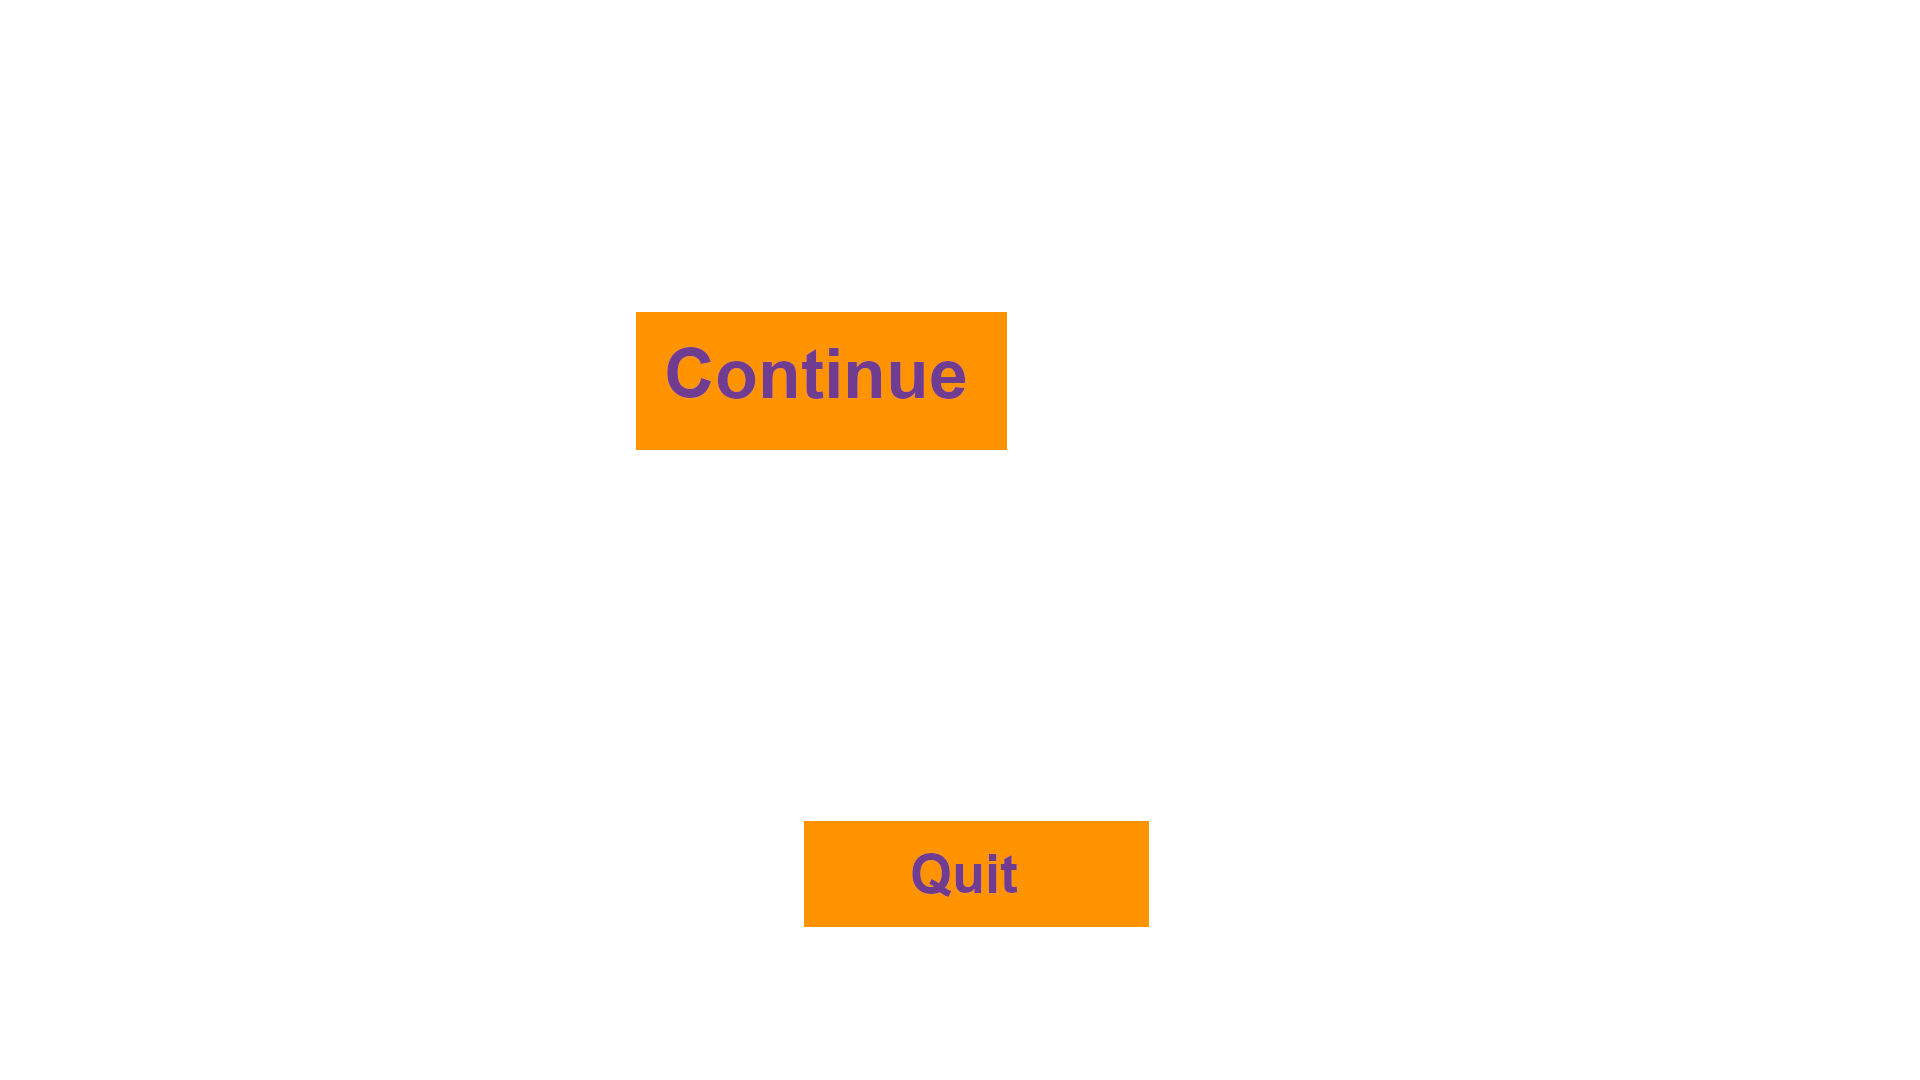
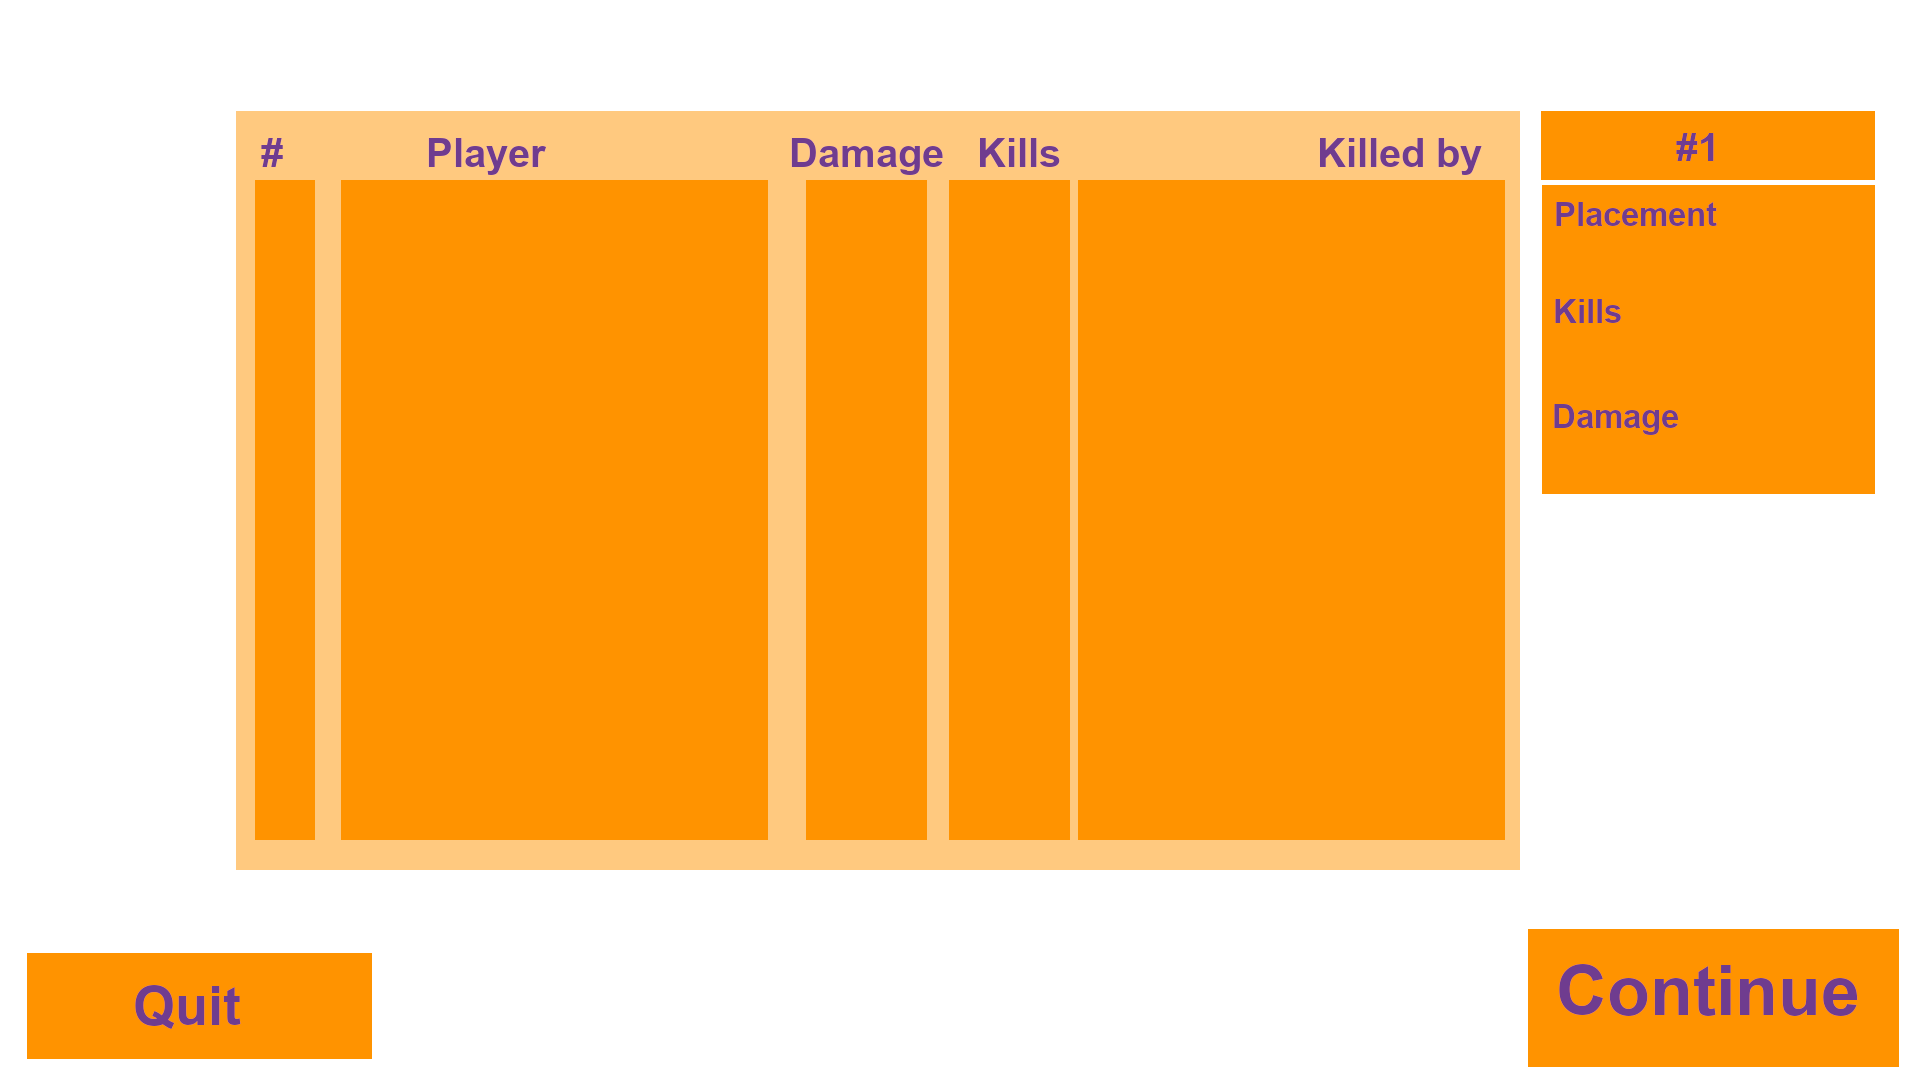
-_-

diff --git a/Leaderboard.cpp b/Leaderboard.cpp
@@ -1,0 +1,85 @@
+#include "Leaderboard.hpp"
+
+#include "Player.hpp"
+#include <sstream>
+
+unsigned int leaderboard_count = 0;
+
+unsigned int leaderboard_place_pos = 0;
+unsigned int leaderboard_player_pos = 0;
+unsigned int leaderboard_dmg_pos = 0;
+unsigned int leaderboard_kills_pos = 0;
+unsigned int leaderboard_killedby_pos = 0;
+
+unsigned int player_size_in_bf;
+unsigned int place_size_in_bf;
+
+void leaderboard_init(struct bit_field* bf_rw) {
+	int size = players.size() * sizeof(struct leaderboard_place_element);
+	int size_in_bf = (int)ceilf(size / (float)sizeof(unsigned int));
+	place_size_in_bf = size_in_bf;
+	leaderboard_place_pos = bit_field_add_bulk_zero(bf_rw, size_in_bf) + 1;
+	ui_value_as_config(bf_rw, "ingame_menu", "leaderboard_place", 0, leaderboard_place_pos);
+	
+	size = players.size() * sizeof(struct playerlist_element);
+	size_in_bf = (int)ceilf(size / (float)sizeof(unsigned int));
+	player_size_in_bf = size_in_bf;
+	leaderboard_player_pos = bit_field_add_bulk_zero(bf_rw, size_in_bf) + 1;
+	ui_value_as_config(bf_rw, "ingame_menu", "leaderboard_player", 0, leaderboard_player_pos);
+	
+	size = players.size() * sizeof(struct leaderboard_place_element);
+	size_in_bf = (int)ceilf(size / (float)sizeof(unsigned int));
+	leaderboard_dmg_pos = bit_field_add_bulk_zero(bf_rw, size_in_bf) + 1;
+	ui_value_as_config(bf_rw, "ingame_menu", "leaderboard_dmg", 0, leaderboard_dmg_pos);
+	
+	size = players.size() * sizeof(struct leaderboard_place_element);
+	size_in_bf = (int)ceilf(size / (float)sizeof(unsigned int));
+	leaderboard_kills_pos = bit_field_add_bulk_zero(bf_rw, size_in_bf) + 1;
+	ui_value_as_config(bf_rw, "ingame_menu", "leaderboard_kills", 0, leaderboard_kills_pos);
+
+	size = players.size() * sizeof(struct playerlist_element);
+	size_in_bf = (int)ceilf(size / (float)sizeof(unsigned int));
+	leaderboard_killedby_pos = bit_field_add_bulk_zero(bf_rw, size_in_bf) + 1;
+	ui_value_as_config(bf_rw, "ingame_menu", "leaderboard_killedby", 0, leaderboard_killedby_pos);
+	
+}
+
+void leaderboard_add(struct bit_field* bf_rw, const char playername[50], const unsigned int dmg, const unsigned int kills, const char shooter[50]) {
+	stringstream ss_place;
+	ss_place << (players.size() - leaderboard_count);
+	struct leaderboard_place_element lpe(ss_place.str().c_str());
+	struct leaderboard_place_element* lp = (struct leaderboard_place_element*) &bf_rw->data[leaderboard_place_pos];
+	memcpy(&lp[leaderboard_count], &lpe, sizeof(struct leaderboard_place_element));
+	bit_field_invalidate_bulk(bf_rw, leaderboard_place_pos, place_size_in_bf);
+	ui_value_as_config(bf_rw, "ingame_menu", "leaderboard_place", 1, leaderboard_count+1);
+	
+	struct playerlist_element ple(playername);
+	struct playerlist_element* pl = (struct playerlist_element*) &bf_rw->data[leaderboard_player_pos];
+	memcpy(&pl[leaderboard_count], &ple, sizeof(struct playerlist_element));
+	bit_field_invalidate_bulk(bf_rw, leaderboard_player_pos, player_size_in_bf);
+	ui_value_as_config(bf_rw, "ingame_menu", "leaderboard_player", 1, leaderboard_count + 1);
+	
+	stringstream ss_dmg;
+	ss_dmg << dmg;
+	struct leaderboard_place_element lde(ss_dmg.str().c_str());
+	struct leaderboard_place_element* ld = (struct leaderboard_place_element*) &bf_rw->data[leaderboard_dmg_pos];
+	memcpy(&ld[leaderboard_count], &lde, sizeof(struct leaderboard_place_element));
+	bit_field_invalidate_bulk(bf_rw, leaderboard_dmg_pos, place_size_in_bf);
+	ui_value_as_config(bf_rw, "ingame_menu", "leaderboard_dmg", 1, leaderboard_count + 1);
+	
+	stringstream ss_kills;
+	ss_kills << kills;
+	struct leaderboard_place_element lke(ss_kills.str().c_str());
+	struct leaderboard_place_element* lk = (struct leaderboard_place_element*) &bf_rw->data[leaderboard_kills_pos];
+	memcpy(&lk[leaderboard_count], &lke, sizeof(struct leaderboard_place_element));
+	bit_field_invalidate_bulk(bf_rw, leaderboard_kills_pos, place_size_in_bf);
+	ui_value_as_config(bf_rw, "ingame_menu", "leaderboard_kills", 1, leaderboard_count + 1);
+	
+	struct playerlist_element pkbe(shooter);
+	struct playerlist_element* pkb = (struct playerlist_element*) &bf_rw->data[leaderboard_killedby_pos];
+	memcpy(&pkb[leaderboard_count], &pkbe, sizeof(struct playerlist_element));
+	bit_field_invalidate_bulk(bf_rw, leaderboard_killedby_pos, player_size_in_bf);
+	ui_value_as_config(bf_rw, "ingame_menu", "leaderboard_killedby", 1, leaderboard_count + 1);
+	
+	leaderboard_count++;
+}

diff --git a/Main.cpp b/Main.cpp
@@ -14,6 +14,7 @@
 #include "TwitchIntegration.hpp"
 #include "KillFeed.hpp"
 #include "Playerlist.hpp"
+#include "Leaderboard.hpp"
 
 
 #include "time.h"
@@ -54,6 +55,9 @@ unsigned int tick_counter = 0;
 bool game_started = false;
 bool irc_started = false;
 bool running = true;
+
+int top_kills = 0;
+int top_damage = 0;
 
 void start_game() {
 	printf("starting game\n");
@@ -110,6 +114,8 @@ void start_game() {
 	killfeed_init(&bf_rw);
 
 	ui_value_as_config(&bf_rw, "ingame_overlay", "killfeed", 0, kill_feed_pos);
+
+	leaderboard_init(&bf_rw);
 
 	//spawn weapons
 	for (int i = 0; i < players.size(); i++) {
@@ -619,6 +625,7 @@ int main(int argc, char** argv) {
 																pl->kills++;
 																//printf(" & kill");
 																killfeed_add(&bf_rw, pl->name, players[etc->name].name);
+																leaderboard_add(&bf_rw, players[etc->name].name, players[etc->name].damage_dealt, players[etc->name].kills, pl->name);
 															}
 														}
 														//printf("\n");
@@ -732,6 +739,16 @@ int main(int argc, char** argv) {
 			players_it = players.begin();
 			while (players_it != players.end()) {
 				struct player* pl = &players_it->second;
+				if (pl->kills > top_kills) {
+					ui_textfield_set_value(&bf_rw, "ingame_menu", "top_kills", pl->name);
+					ui_textfield_set_int(&bf_rw, "ingame_menu", "top_kills_nr", pl->kills);
+					top_kills = pl->kills;
+				}
+				if (pl->damage_dealt > top_damage) {
+					ui_textfield_set_value(&bf_rw, "ingame_menu", "top_damage", pl->name);
+					ui_textfield_set_int(&bf_rw, "ingame_menu", "top_damage_nr", pl->damage_dealt);
+					top_damage = pl->damage_dealt;
+				}
 				if (pl->alive) {
 					if (pl->health <= 0) {
 						struct entity* en = &es[pl->entity_id];
@@ -757,6 +774,15 @@ int main(int argc, char** argv) {
 					//for (int i = 0; i < players.size(); i++) {
 					struct player* pl = &players_it->second;
 					if (pl->alive) {
+						if (kill_count == players.size() - 1) {
+							ui_textfield_set_value(&bf_rw, "ingame_menu", "top_placement", pl->name);
+							char tmp[2];
+							tmp[0] = '^';
+							tmp[1] = '\0';
+							leaderboard_add(&bf_rw, pl->name, pl->damage_dealt, pl->kills, tmp);
+							pl->alive = false;
+							ui_set_active("ingame_menu");
+						}
 						if (pl->damage_dealt > 0) {
 							//printf("name: %s, health: %d, shield: %d, damage: %d, kills: %d\n", pl->name, pl->health, pl->shield, pl->damage_dealt, pl->kills);
 						}
@@ -769,6 +795,10 @@ int main(int argc, char** argv) {
 							if (pl->health <= 0) {
 								pl->alive = false;
 								killfeed_add(&bf_rw, NULL, pl->name, true);
+								char tmp[2];
+								tmp[0] = ';';
+								tmp[1] = '\0';
+								leaderboard_add(&bf_rw, pl->name, pl->damage_dealt, pl->kills, tmp);
 								//object itself
 								grid_object_remove(&bf_rw, bf_rw.data, gd.position_in_bf, en->position, { player_models[PT_HOPE].model_scale, player_models[PT_HOPE].model_scale, 1.0f }, { 0.0f, 0.0f, 0.0f }, model_get_max_position(&player_models[PT_HOPE]), pl->entity_id);
 								//object text
@@ -782,25 +812,7 @@ int main(int argc, char** argv) {
 			} else {
 				if (ui_active == "lobby" && irc_started) {
 					twitch_update_players(&bf_rw);
-
-					struct ui_element* uies = (struct ui_element*) &bf_rw.data[ui_elements_position["lobby"]];
-					int uc;
-					for (uc = 0; uc < uis["lobby"].ui_elements.size(); uc++) {
-						if (uis["lobby"].ui_elements[uc].name == "playercount") {
-							struct ui_element* uie = &uies[uc];
-							stringstream ss_pc;
-							ss_pc << players.size();
-							for (int ca = 0; ca < ss_pc.str().length(); ca++) {
-								uie->value[ca] = ss_pc.str().at(ca);
-							}
-							break;
-						}
-					}
-					int size = sizeof(struct ui_element);
-					unsigned int size_in_bf = (unsigned int)ceilf(size / (float)sizeof(unsigned int));
-					bit_field_invalidate_bulk(&bf_rw, ui_elements_position["lobby"] + uc * size_in_bf, size_in_bf);
-
-					printf("player_count %i\n", players.size());
+					ui_textfield_set_int(&bf_rw, "lobby", "playercount", players.size());
 				}
 				if (ui_active == "lobby" && !irc_started) {
 					string twitch_name = "";

diff --git a/Leaderboard.hpp b/Leaderboard.hpp
@@ -1,0 +1,33 @@
+#ifndef LEADERBOARD_HPP
+#define LEADERBOARD_HPP
+
+#include <vector>
+#include <utility>
+#include "UI.hpp"
+#include "BitField.hpp"
+
+#include "Playerlist.hpp"
+
+struct leaderboard_place_element {
+    leaderboard_place_element(const char s[8]) {
+        int cur_pos = 0;
+        value[cur_pos++] = '^';
+        for (int i = 0; i < 8; i++) {
+            if (s[i] == '\0') break;
+            value[cur_pos] = s[i];
+            cur_pos++;
+        }
+        value[cur_pos++] = '^';
+        for (int i = cur_pos; i < 10; i++) {
+            value[i] = '\0';
+        }
+    }
+    char value[10];
+};
+
+using namespace std;
+
+void leaderboard_init(struct bit_field* bf_rw);
+void leaderboard_add(struct bit_field* bf_rw, const char playername[50], const unsigned int dmg, const unsigned int kills, const char shooter[50]);
+
+#endif

diff --git a/Playerlist.cpp b/Playerlist.cpp
@@ -7,7 +7,7 @@ int playerlist_pos;
 struct playerlist_element* playerlist;
 
 void playerlist_init(struct bit_field* bf_rw) {
-	int size = players.size() * sizeof(struct playerlist_element);
+	int size = players_max * sizeof(struct playerlist_element);
 	int size_in_bf = (int)ceilf(size / (float)sizeof(unsigned int));
 
 	playerlist_pos = bit_field_add_bulk_zero(bf_rw, size_in_bf) + 1;
@@ -19,7 +19,7 @@ void playerlist_add(struct bit_field* bf_rw, const char playername[50]) {
 
 	memcpy(&pe[playerlist_count], &pes, sizeof(struct playerlist_element));
 
-	int size = players.size() * sizeof(struct playerlist_element);
+	int size = players_max * sizeof(struct playerlist_element);
 	int size_in_bf = (int)ceilf(size / (float)sizeof(unsigned int));
 
 	bit_field_invalidate_bulk(bf_rw, playerlist_pos, size_in_bf);

diff --git a/UI.hpp b/UI.hpp
@@ -35,6 +35,8 @@ struct ui_element {
 	enum on_click_action_type		ocat;
 	string							ocap;
 
+	unsigned int					font_size;
+
 	char							value[51];
 };
 
@@ -63,4 +65,6 @@ void ui_process_keys(struct bit_field* bf_rw, const unsigned int x, const unsign
 
 void ui_value_as_config(struct bit_field* bf_rw, string ui_name, string element_name, int index, int value);
 
+void ui_textfield_set_int(struct bit_field* bf_rw, string ui_name, string ui_element_name, int value);
+void ui_textfield_set_value(struct bit_field* bf_rw, string ui_name, string ui_element_name, char value[50]);
 #endif
